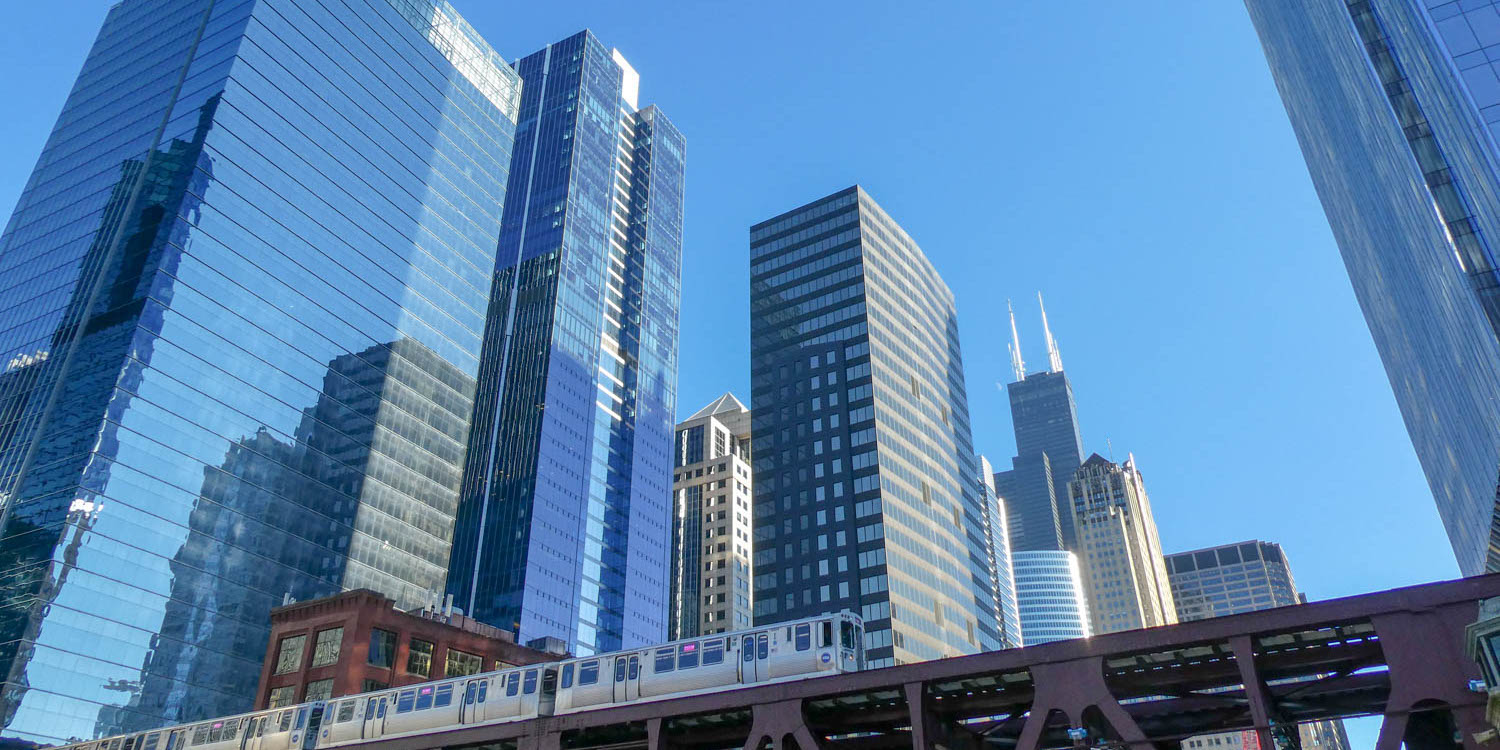
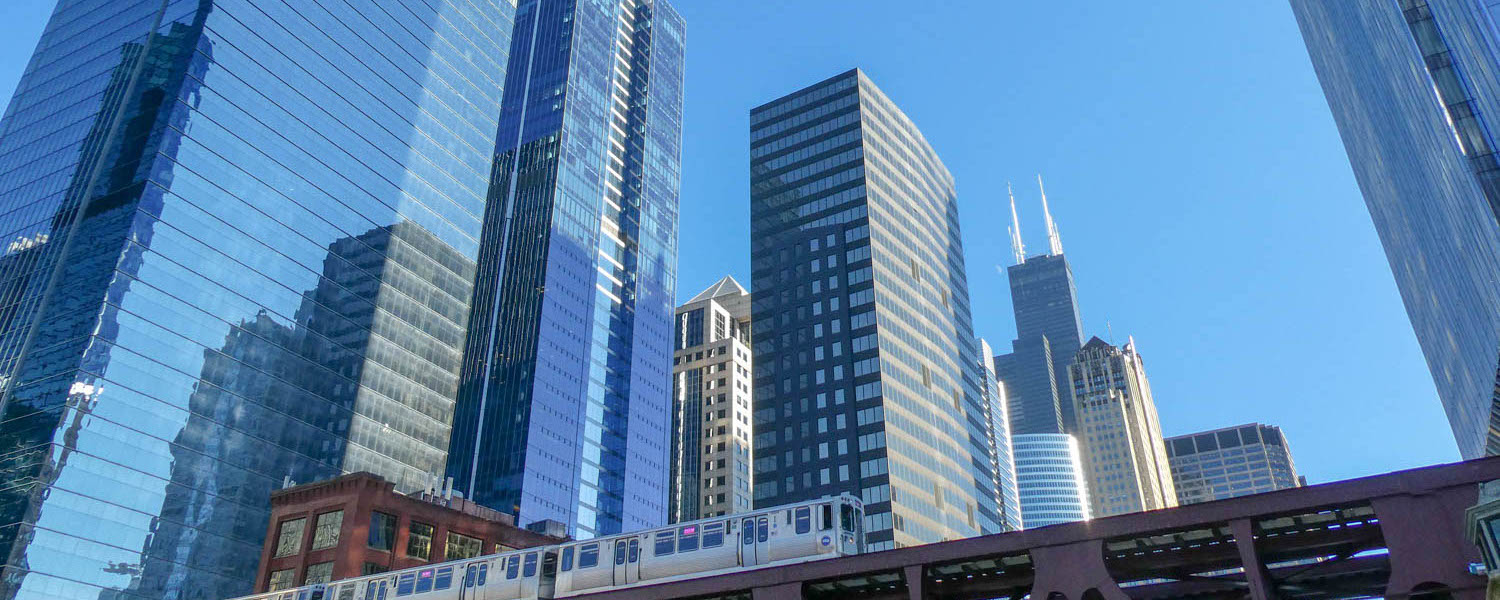
Moved to unsplash free images for carousel

diff --git a/DRWellsConsulting/resources/views/home.blade.php b/DRWellsConsulting/resources/views/home.blade.php
@@ -2,42 +2,51 @@
 
 @section ('content')
 <?php $page = "home" ?>
-  <!-- Start Page Content -->
+<!-- Start Page Content -->
 
-  <!-- Start Carousel -->
-  <!-- Let's agree on a aspect ratio for images in the carousel, and stick to it.
-  This may involve modifying some images to make them fit. I'd opt for a very
-  wide ratio so we can have a 100% width on the splash page images. For now 1:2 -->
-  <div id="myCarousel" class="carousel slide" data-ride="carousel">
-    <ol class="carousel-indicators">
-      <li data-target="#myCarousel" data-slide-to="0" class="active"></li>
-      <li data-target="#myCarousel" data-slide-to="1"></li>
-      <li data-target="#myCarousel" data-slide-to="2"></li>
-    </ol>
-    <div class="carousel-inner">
-      <div class="carousel-item active">
-
-        <img src="{{url('img/20180915-167.jpg')}}" alt="chicago skyline">
-      </div><!-- End active -->
-      <div class="carousel-item">
-        <img src="{{url('img/20180915-179.jpg')}}" alt="chicago bridge">
-      </div><!-- End active -->
-      <div class="carousel-item">
-        <img src="{{url('img/20180916-129.jpg')}}" alt="chicago Tom">
-      </div><!-- End active -->
+<!-- Start Carousel -->
+<!-- Let's agree on a aspect ratio for images in the carousel, and stick to it.
+This may involve modifying some images to make them fit. I'd opt for a very
+wide ratio so we can have a 100% width on the splash page images. For now 1:2 -->
+<div id="myCarousel" class="carousel slide" data-ride="carousel">
+  <ol class="carousel-indicators">
+    <li data-target="#myCarousel" data-slide-to="0" class="active"></li>
+    <li data-target="#myCarousel" data-slide-to="1"></li>
+    <li data-target="#myCarousel" data-slide-to="2"></li>
+    <li data-target="#myCarousel" data-slide-to="3"></li>
+    <li data-target="#myCarousel" data-slide-to="4"></li>
+  </ol>
+  <div class="carousel-inner">
+    <div class="carousel-item active">
+      <img src="{{url('img/carousel/andreas-klassen-gZB-i-dA6ns-unsplash.jpg')}}" alt="chicago skyline">
     </div>
-    <!-- Start Slider Controls -->
-    <a class="carousel-control-prev" href="#myCarousel" role="button" data-slide="prev">
-      <span class="carousel-control-prev-icon" aria-hidden="true"></span>
-      <span class="sr-only">Previous</span>
-    </a>
-    <a class="carousel-control-next" href="#myCarousel" role="button" data-slide="next">
-      <span class="carousel-control-next-icon" aria-hidden="true"></span>
-      <span class="sr-only">Next</span>
-    </a>
+    <div class="carousel-item">
+      <img src="{{url('img/carousel/christina-wocintechchat-com-9-ohfp-Dicg-unsplash.jpg')}}" alt="chicago bridge">
+    </div>
+    <div class="carousel-item">
+      <img src="{{url('img/carousel/danielle-macinnes-IuLgi9PWETU-unsplash.jpg')}}" alt="chicago Tom">
+    </div>
+    <div class="carousel-item">
+      <img src="{{url('img/carousel/florian-klauer-mk7D-4UCfmg-unsplash.jpg')}}" alt="chicago Tom">
+    </div>
+    <div class="carousel-item">
+      <img src="{{url('img/carousel/freddie-marriage-vSchPA-YA_A-unsplash.jpg')}}" alt="chicago Tom">
+    </div>
   </div>
-  <!-- End of Carousel -->
-<div class="parallax">
+  <!-- Start Slider Controls -->
+  <a class="carousel-control-prev" href="#myCarousel" role="button" data-slide="prev">
+    <span class="carousel-control-prev-icon" aria-hidden="true"></span>
+    <span class="sr-only">Previous</span>
+  </a>
+  <a class="carousel-control-next" href="#myCarousel" role="button" data-slide="next">
+    <span class="carousel-control-next-icon" aria-hidden="true"></span>
+    <span class="sr-only">Next</span>
+  </a>
+</div>
+<!-- End of Carousel -->
+
+<div class="parallax pb-3">
+  <h1 class="text-center bg-light py-3" style="opacity: .7;">Mobile First Design</h1>
   <div class="container-fluid">
     <div class="row py-5 align-items-center justify-content-around">
       <div class="col-sm-6 col-lg-4 py-2 text-center">
@@ -55,14 +64,17 @@
         <p class="card-text">In 2019 mobile devices accounted for 51% of all
           web traffic worldwide. You need a website that looks great for all
           of your visiters. If you're looking to create a new website or web
-          application, you need to be thinking of your audience! We ensure your
-          website looks great no matter what devices visiters view it on.
-          We always use a mobile first aproach to design, so you can expect
-          flawless experiences <em>every time</em>.</p>
+          application, you need to be thinking of your audience! For far too
+          long mobile websites were an afterthought, when designing content for
+          the web. Mobile first content should be viewed as a necessity from
+          the begining of the design process.
+          </p>
+        </div>
       </div>
     </div>
-    <hr>
-    <div class="row mt-5">
+  </div>
+  <div class="container-fluid">
+    <div class="row mt-3 mb-4">
       <div class="col-lg-4 mb-3">
         <div class="card px-3 pb-3 text-white bg-dark text-center">
           <span style="font-size: 5em;"><i class="fas fa-crosshairs"></i></span>
@@ -86,7 +98,6 @@
       </div>
     </div>
   </div>
-</div>
 
   <!-- Start accordion -->
   <div class="accordion" id="accordionExample">
@@ -135,6 +146,6 @@
     </div>
   </div>
   <!-- End accordion -->
-<!-- End Page Content -->
+  <!-- End Page Content -->
 
-@endsection
+  @endsection
